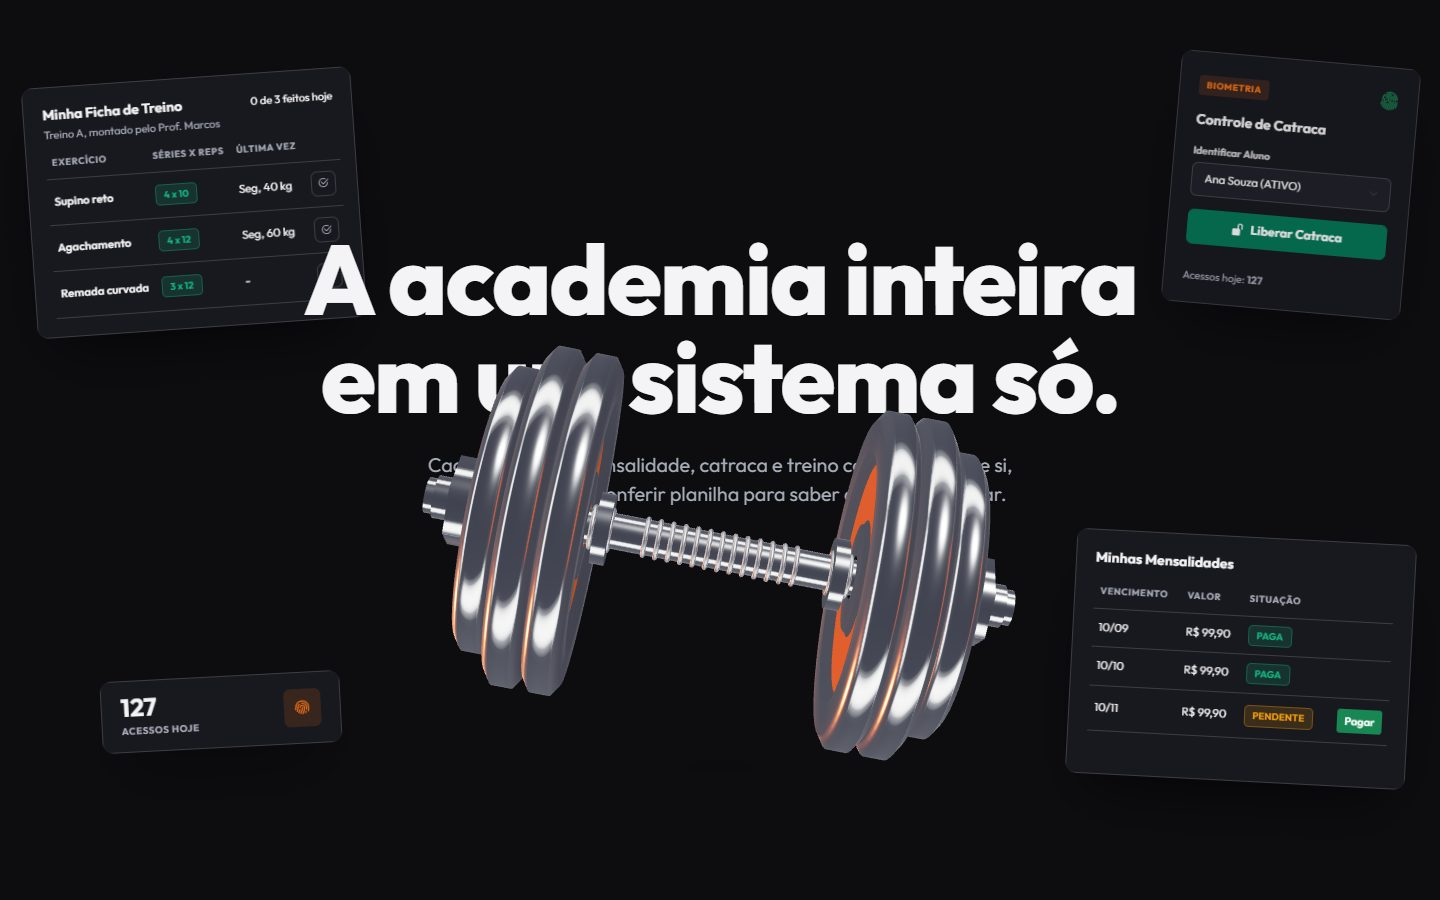
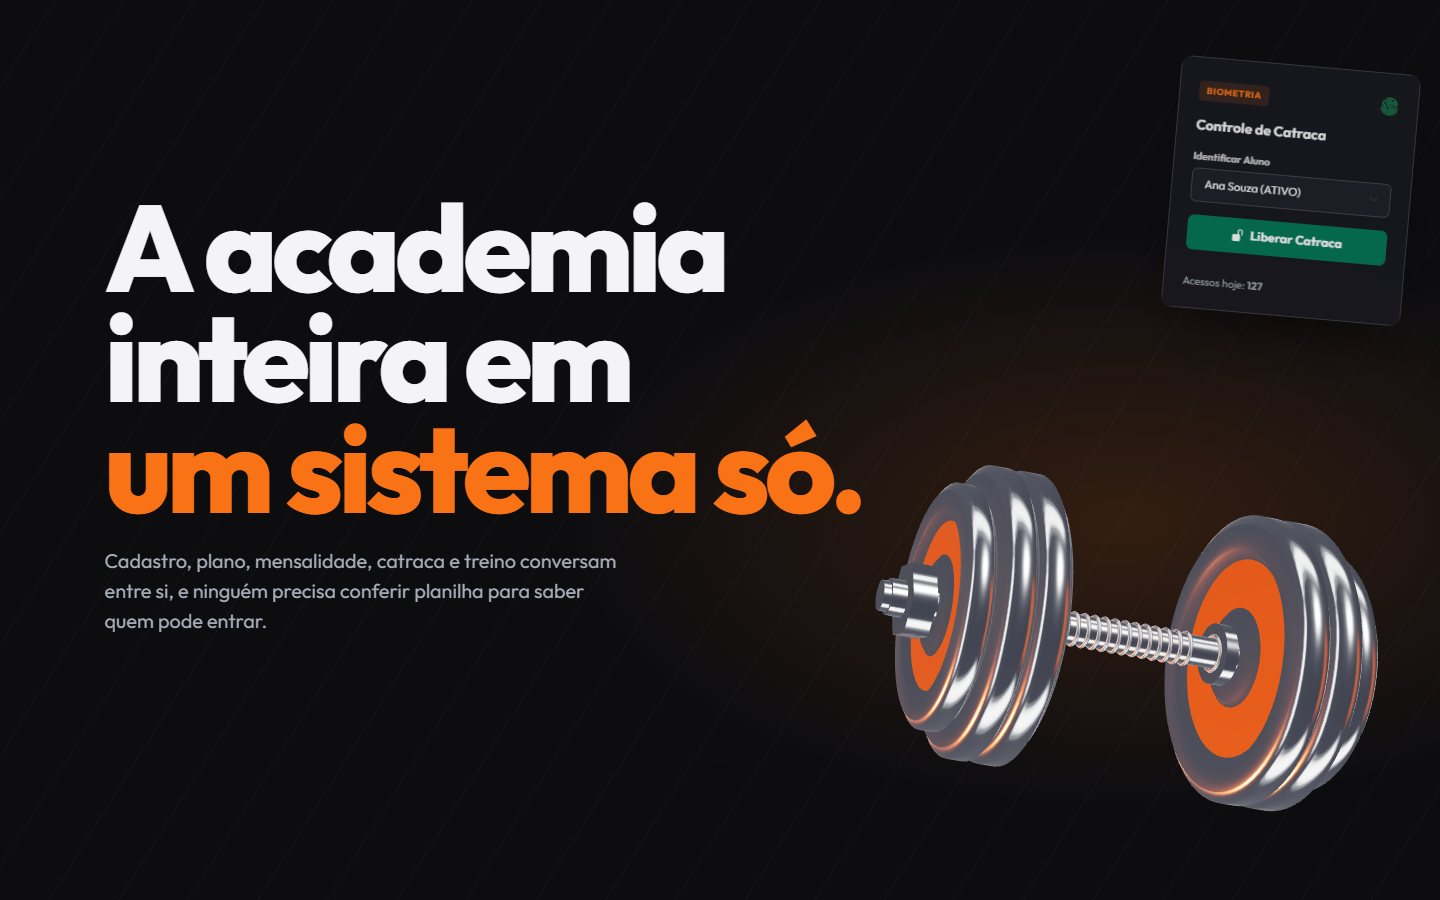
Abertura do Quem somos: título à esquerda, halter à direita e nova imagem do README

diff --git a/src/main/resources/static/js/halter.js b/src/main/resources/static/js/halter.js
@@ -106,6 +106,7 @@ function iniciar() {
 
     const largaEAnimada = () => window.matchMedia('(min-width: 992px) and (prefers-reduced-motion: no-preference)').matches;
     let alturaVisivel = 1;
+    let deslocamentoX = 0; // na abertura animada o halter fica à direita, longe do texto
     let animado = false;
     // y em frações da altura visível; rotações em radianos
     const inicio = { y: 0.8, rx: 2.6, ry: 0.9, rz: -1.1 };
@@ -115,6 +116,7 @@ function iniciar() {
 
     const desenhar = () => {
         halter.position.y = (animado ? estado.y : 0) * alturaVisivel;
+        halter.position.x = deslocamentoX;
         halter.rotation.set(estado.rx, estado.ry + giroLivre, estado.rz);
         renderer.render(cena, camera);
     };
@@ -127,8 +129,9 @@ function iniciar() {
         camera.updateProjectionMatrix();
         alturaVisivel = 2 * Math.tan(THREE.MathUtils.degToRad(camera.fov / 2)) * camera.position.z;
         const larguraVisivel = alturaVisivel * camera.aspect;
+        deslocamentoX = animado ? larguraVisivel * 0.28 : 0;
         // O halter mede 3,2 de ponta a ponta: 40% da largura na abertura animada, 75% no celular, sem passar da altura
-        const fracao = animado ? 0.4 : 0.75;
+        const fracao = animado ? 0.34 : 0.75;
         halter.scale.setScalar(Math.min((larguraVisivel * fracao) / 3.2, (alturaVisivel * 0.55) / 2));
         desenhar();
     };

diff --git a/src/main/resources/static/css/gymsync-tema.css b/src/main/resources/static/css/gymsync-tema.css
@@ -404,6 +404,8 @@ html:has(.sobre) { scroll-behavior: smooth; }
 .cartao-foto { border: 1px solid var(--border-color); }
 .cartao-foto img { aspect-ratio: 3 / 4; object-fit: cover; }
 /* Os mais "fundos" ficam menores e mais apagados, para dar profundidade */
+/* Com o título à esquerda e o halter à direita, só o cartão c3 fica; os outros entrariam por cima do texto ou do halter */
+.c1, .c2, .c4 { display: none; }
 .c1 { width: 330px; left: 2%; top: 5%; rotate: -4deg; }
 .c2 { width: 340px; right: 2%; top: 55%; rotate: 3deg; }
 .c3 { width: 240px; right: 2%; top: 4%; rotate: 5deg; opacity: 0.85; }
